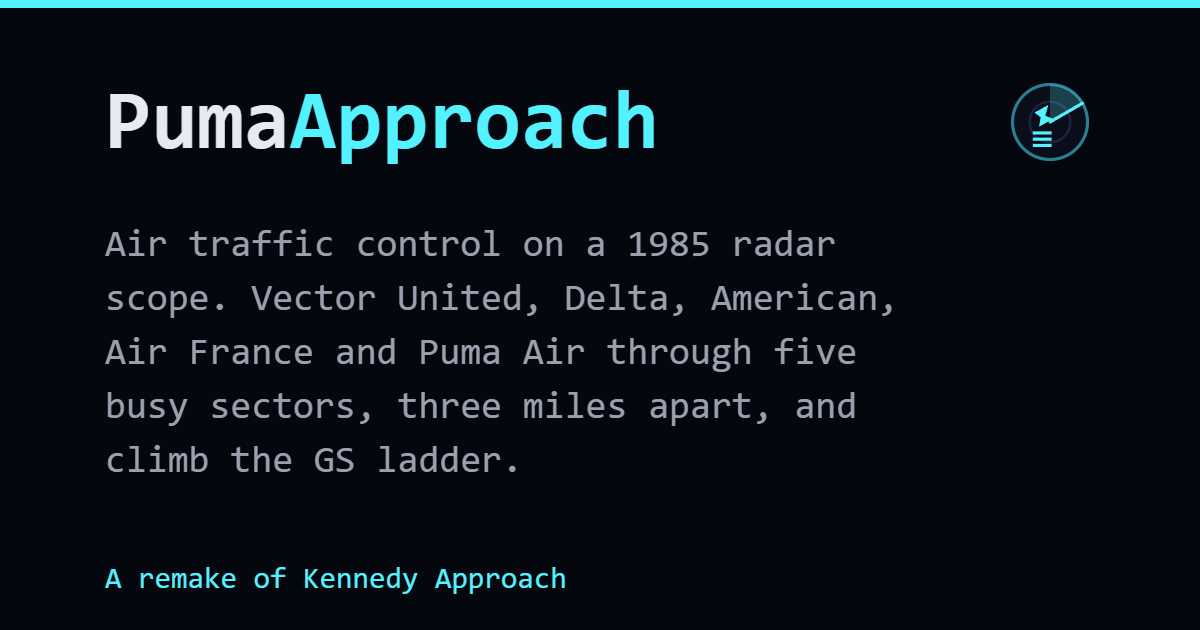
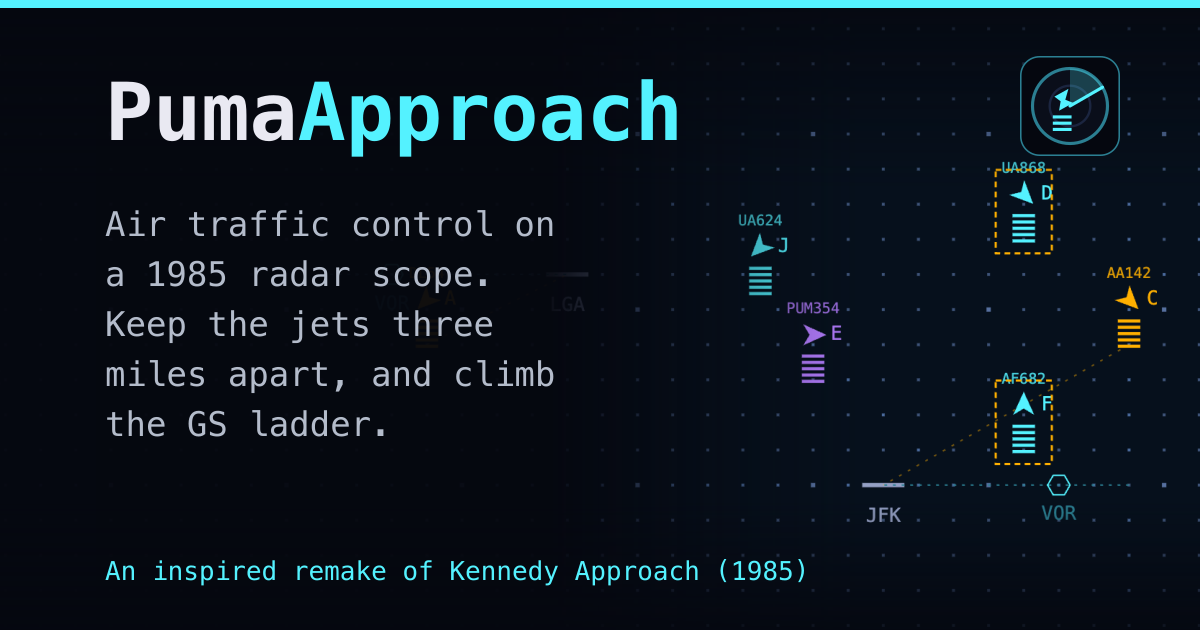
The share card shows the scope, with a busy New York hour behind the words
The card was text alone. It now carries a frame of the game's own scope,
as Watchers' does, keeping §9's rule, wordmark, description, tagline and
icon. The description gets back the 'keep them' it had lost, the tagline
and page description say 'inspired remake' as About now does, and the
icon sits on an edged tile so it holds against the scope.

render-icons.sh refuses to render without Menlo: the last card had been
rendered in another face by a fontconfig fallback nobody saw.

diff --git a/index.html b/index.html
@@ -4,23 +4,23 @@
 <meta charset="UTF-8">
 <meta name="viewport" content="width=device-width, initial-scale=1.0, viewport-fit=cover">
 <title>PumaApproach — Air Traffic Control</title>
-<meta name="description" content="Air traffic control on a 1985 radar scope. Vector United, Delta, American, Air France and Puma Air through five busy sectors, keep them three miles apart, and climb the GS ladder. A remake of Kennedy Approach.">
+<meta name="description" content="Air traffic control on a 1985 radar scope. Vector United, Delta, American, Air France and Puma Air through five busy sectors, keep them three miles apart, and climb the GS ladder. An inspired remake of Kennedy Approach.">
 <meta name="theme-color" content="#05070f">
 <meta name="color-scheme" content="dark">
 <meta name="referrer" content="no-referrer">
 <meta property="og:title" content="PumaApproach">
-<meta property="og:description" content="Air traffic control on a 1985 radar scope. Vector United, Delta, American, Air France and Puma Air through five busy sectors, keep them three miles apart, and climb the GS ladder. A remake of Kennedy Approach.">
+<meta property="og:description" content="Air traffic control on a 1985 radar scope. Vector United, Delta, American, Air France and Puma Air through five busy sectors, keep them three miles apart, and climb the GS ladder. An inspired remake of Kennedy Approach.">
 <meta property="og:type" content="website">
 <meta property="og:image" content="https://greykit.com/games/pumaapproach/og.png">
 <meta property="og:image:width" content="1200">
 <meta property="og:image:height" content="630">
-<meta property="og:image:alt" content="Air traffic control on a 1985 radar scope. Vector United, Delta, American, Air France and Puma Air through five busy sectors, keep them three miles apart, and climb the GS ladder. A remake of Kennedy Approach.">
+<meta property="og:image:alt" content="Air traffic control on a 1985 radar scope. Vector United, Delta, American, Air France and Puma Air through five busy sectors, keep them three miles apart, and climb the GS ladder. An inspired remake of Kennedy Approach.">
 <meta property="og:url" content="https://greykit.com/games/pumaapproach/">
 <meta name="twitter:card" content="summary_large_image">
 <meta name="twitter:title" content="PumaApproach">
-<meta name="twitter:description" content="Air traffic control on a 1985 radar scope. Vector United, Delta, American, Air France and Puma Air through five busy sectors, keep them three miles apart, and climb the GS ladder. A remake of Kennedy Approach.">
+<meta name="twitter:description" content="Air traffic control on a 1985 radar scope. Vector United, Delta, American, Air France and Puma Air through five busy sectors, keep them three miles apart, and climb the GS ladder. An inspired remake of Kennedy Approach.">
 <meta name="twitter:image" content="https://greykit.com/games/pumaapproach/og.png">
-<meta name="twitter:image:alt" content="Air traffic control on a 1985 radar scope. Vector United, Delta, American, Air France and Puma Air through five busy sectors, keep them three miles apart, and climb the GS ladder. A remake of Kennedy Approach.">
+<meta name="twitter:image:alt" content="Air traffic control on a 1985 radar scope. Vector United, Delta, American, Air France and Puma Air through five busy sectors, keep them three miles apart, and climb the GS ladder. An inspired remake of Kennedy Approach.">
 <link rel="manifest" href="manifest.webmanifest">
 <link rel="apple-touch-icon" href="apple-touch-icon.png">
 <link rel="icon" type="image/svg+xml" href="icon.svg">
